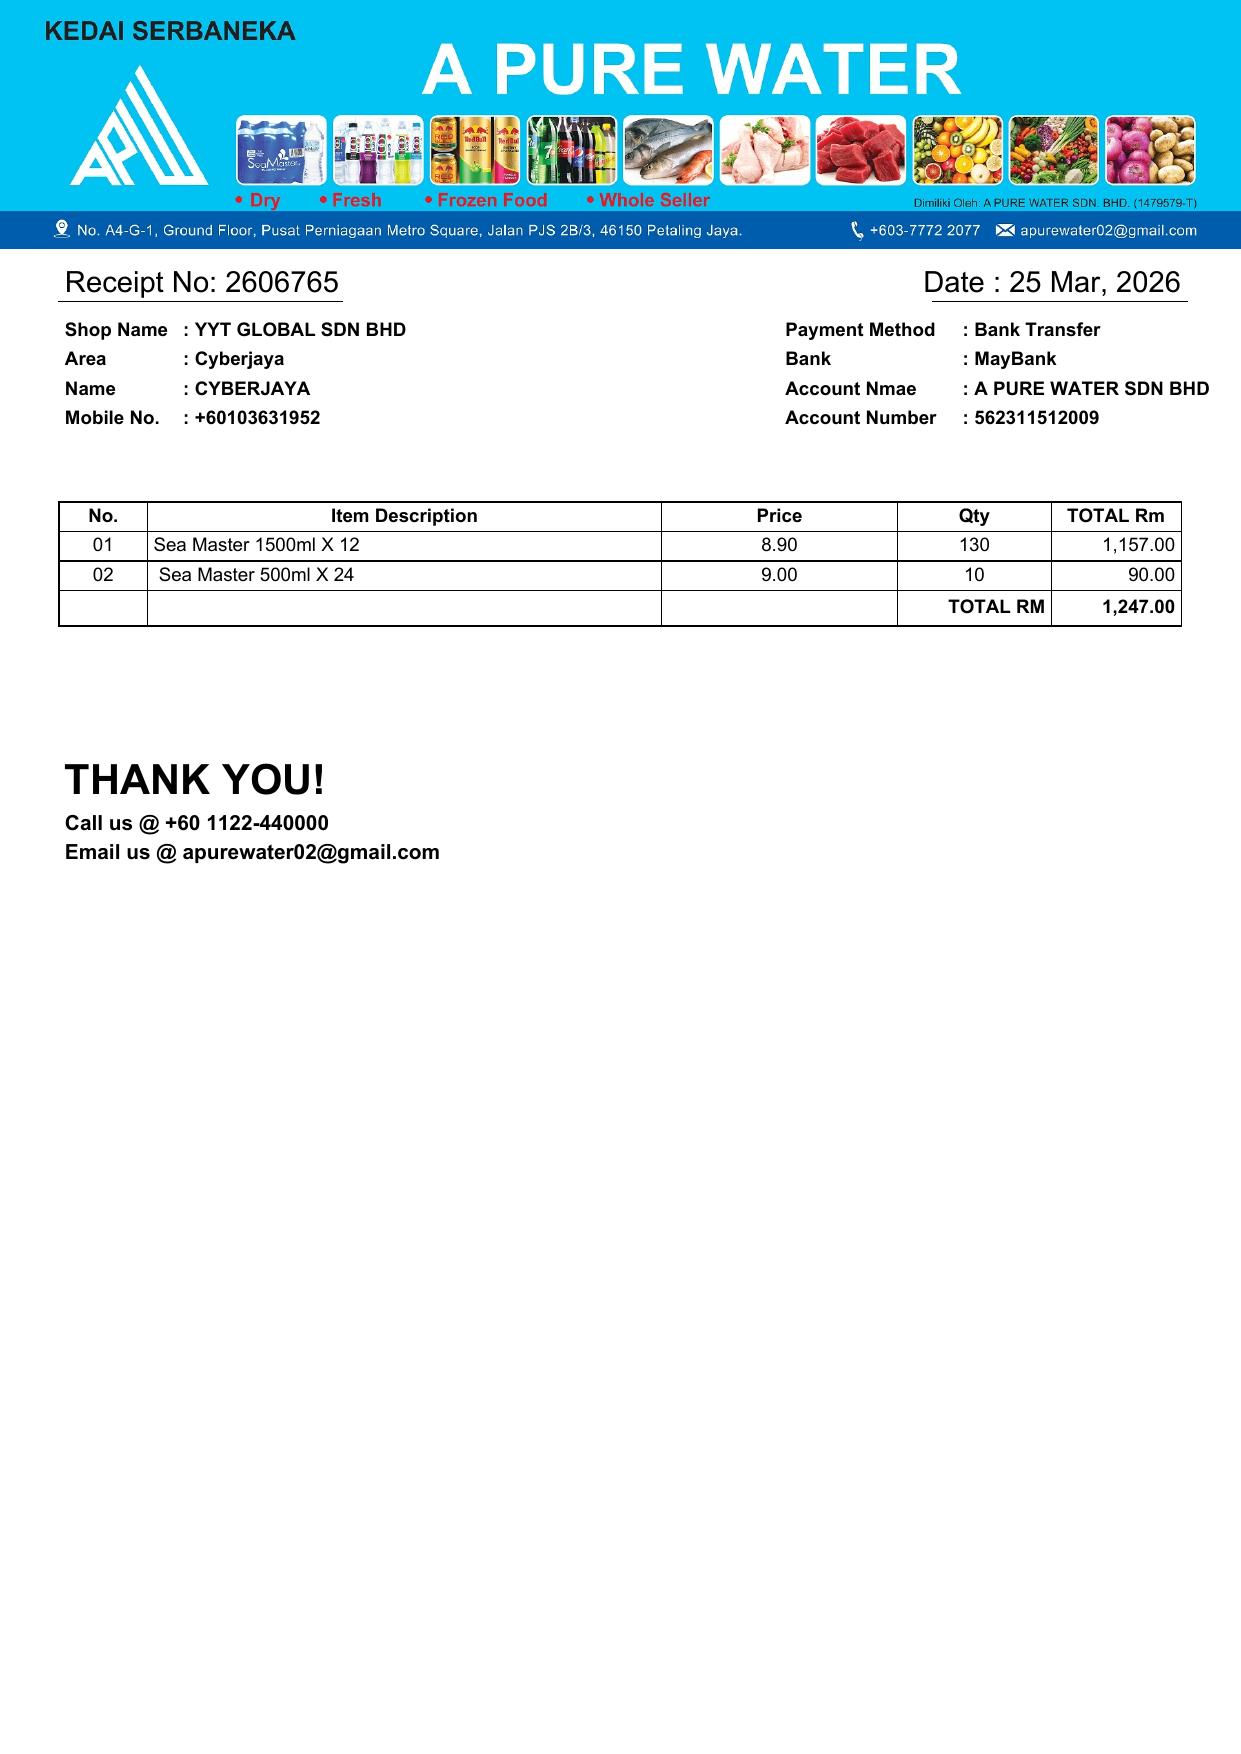
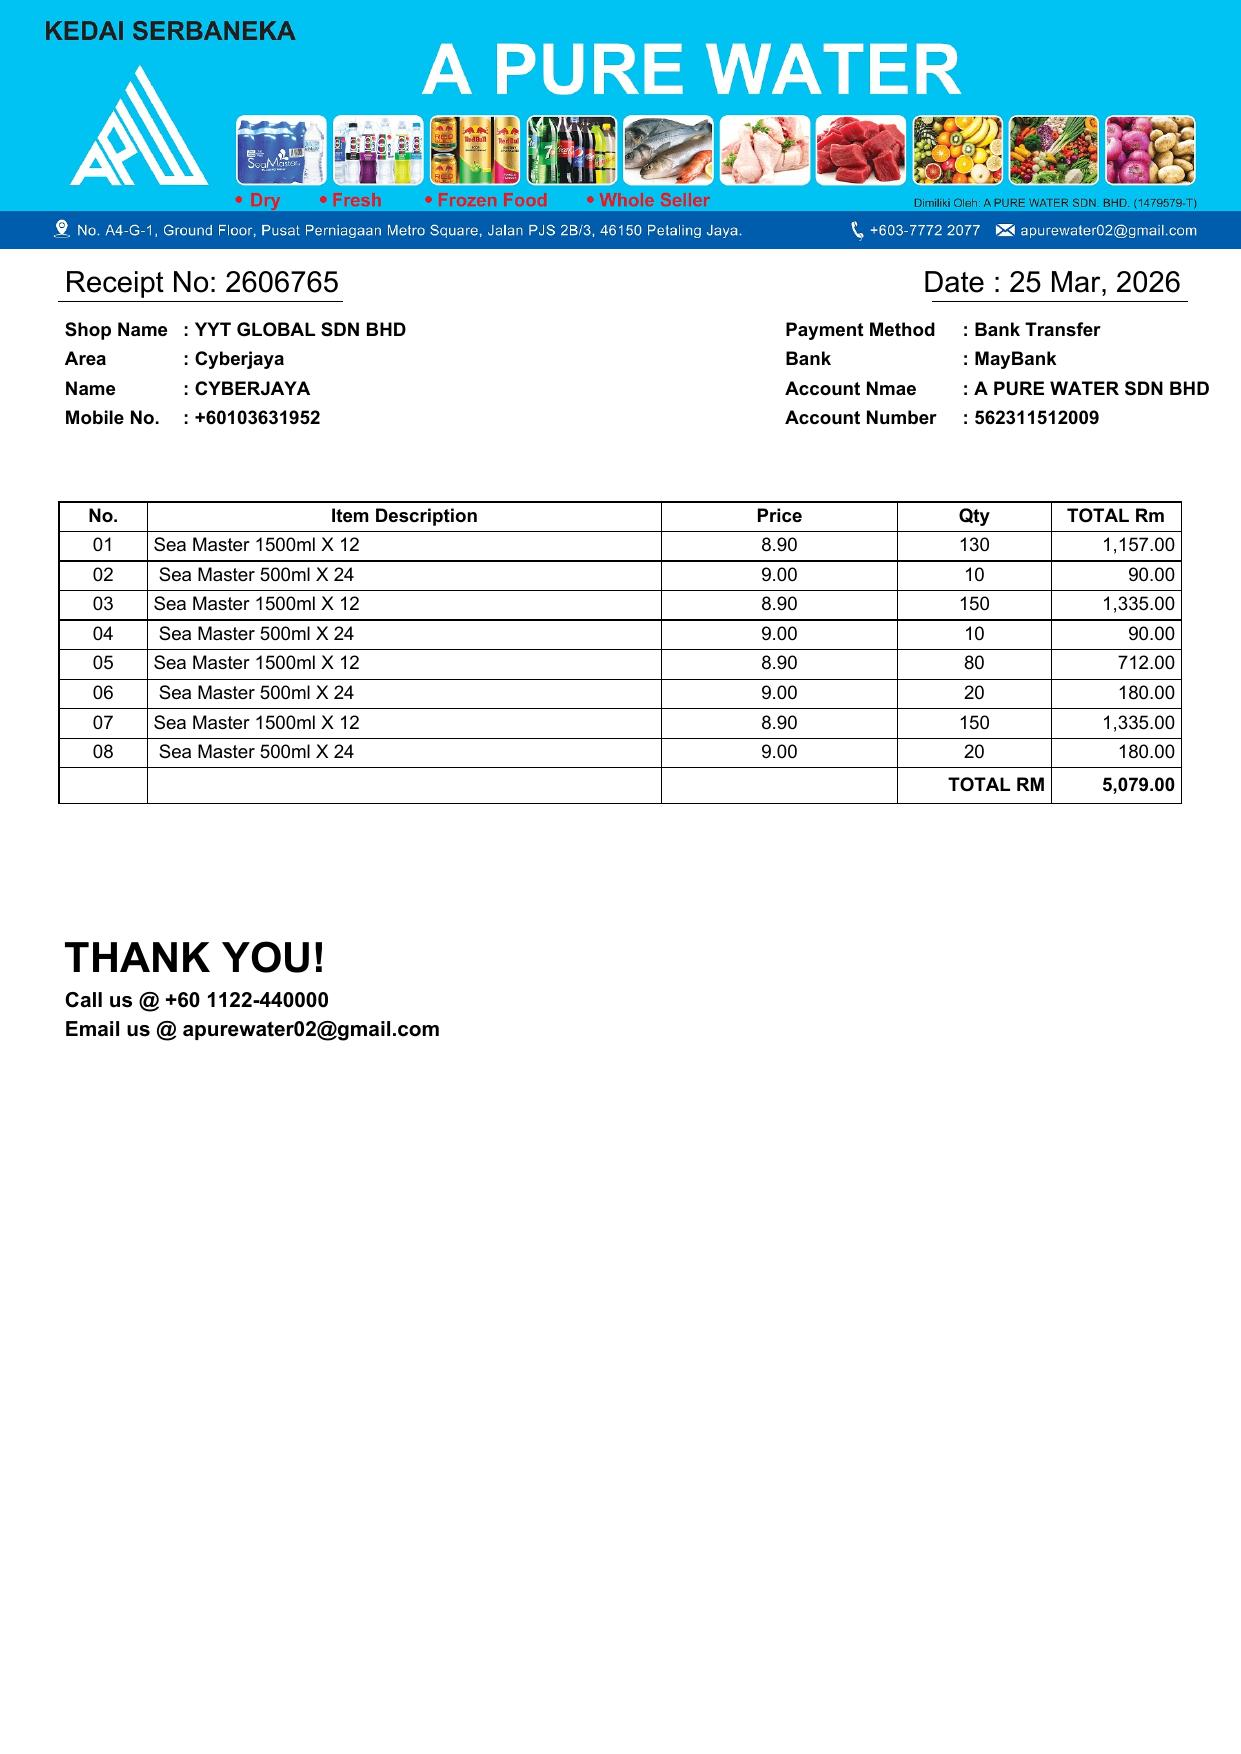
fix delivery date

diff --git a/mobile/pages/home.php b/mobile/pages/home.php
@@ -3,6 +3,10 @@
     border-color: #2563eb !important;
   }
 
+  .bg-gradient-to-b{
+    bottom: 3.5rem !important;
+    right: 1.2rem !important;
+  }
   .text-xsm {
     font-size: .7rem;
   }
@@ -161,56 +165,56 @@ foreach ($products as $pg) {
 </div>
 
 <!-- Product Variants Rows (horizontal sliders) -->
-<div class="space-y-6">
+<div class="space-y-2">
   <?php foreach ($products as $productGroup): ?>
     <div class="bg-white rounded-lg shadow-sm overflow-hidden product-section" id="<?php echo strtolower(str_replace(' ', '-', $productGroup['category_name'])); ?>" data-category="<?php echo strtolower($productGroup['category_name']); ?>">
       <!-- Category Header -->
       <div class="px-2 py-2 bg-white flex items-center justify-between">
         <h3 class="font-bold text-brandBlue text-base"><?php echo $productGroup['category_name']; ?></h3>
-        <div class="flex items-center gap-2">
+        <div class="flex items-center gap-0">
           <button class="slider-prev rounded-full w-8 h-8 border border-gray-300 text-gray-600 flex items-center justify-center hover:bg-gray-50" aria-label="Previous">‹</button>
           <button class="slider-next rounded-full w-8 h-8 border border-gray-300 text-gray-600 flex items-center justify-center hover:bg-gray-50" aria-label="Next">›</button>
         </div>
       </div>
       <!-- Slider Viewport -->
-      <div class="slider-viewport overflow-x-auto overflow-y-hidden relative px-4">
-        <div class="slider-track flex gap-3 will-change-transform pb-2">
+      <div class="slider-viewport overflow-x-auto overflow-y-hidden relative -ml-4">
+        <div class="slider-track flex gap-0 will-change-transform pb-2 pl-4 pr-4">
           <?php foreach ($productGroup['variants'] as $product): ?>
-            <div class="slider-card border border-gray-200 rounded-md overflow-hidden product-item bg-white p-2 flex-shrink-0" style="width: 40%; min-width: 40%;"
+            <div class="slider-card overflow-visible product-item bg-white flex-shrink-0 relative" style="width: calc(40% - 4px); min-width: calc(40% - 4px);"
               data-name="<?php echo strtolower($product['name']); ?>"
               data-category="<?php echo strtolower($productGroup['category_name']); ?>"
               data-size="<?php echo strtolower($product['size']); ?>">
-              <!-- Title Bar -->
-              <div class="px-2 pt-2">
-                <div class="flex items-start justify-between">
-                  <div class="text-[10px] text-gray-600">
-                    <select class="cart-item border border-gray-300 rounded-sm px-1 py-0 text-[10px] focus:outline-none focus:ring-2 focus:ring-blue-400" data-product="<?php echo $product['id']; ?>" aria-label="Quantity">
-                      <?php for ($counter = 0; $counter <= 10; $counter++): ?>
-                        <option value="<?php echo $counter; ?>"><?php echo ($counter > 0 ? '' : '') . $counter; ?></option>
-                      <?php endfor; ?>
-                      <option value="__custom__">Enter quantity...</option>
-                    </select>
-                  </div>
-                </div>
+              <!-- Floating Quantity Badge -->
+              <div class="absolute z-10" style="bottom: 4.5rem;right: 1rem;">
+                <div class="qty-badge bg-white text-green-500 rounded-full w-6 h-6 flex items-center justify-center font-bold text-xs cursor-pointer border border-gray-300 hover:border-gray-400 transition-colors" data-product="<?php echo $product['id']; ?>" style="display: none;">0</div>
               </div>
+              <!-- Hidden select for form submission -->
+              <select class="cart-item hidden" data-product="<?php echo $product['id']; ?>" aria-label="Quantity">
+                <?php for ($counter = 0; $counter <= 10; $counter++): ?>
+                  <option value="<?php echo $counter; ?>"><?php echo $counter; ?></option>
+                <?php endfor; ?>
+                <option value="__custom__">Enter quantity...</option>
+              </select>
               <!-- Image Area -->
-              <div class="px-2 pt-2">
-                <div class="bg-gradient-to-b from-blue-50 to-white rounded-sm flex items-end justify-center overflow-hidden">
+              <div class="p-2">
+                <div class="bg-gradient-to-b from-blue-50 to-white flex items-end justify-center overflow-hidden" style="aspect-ratio: 1; border-radius: 10px; border: solid 1px #efefef;">
                   <?php
                   $imageSrc = getImageOrPlaceholder($product['image'], $product['name']);
                   if (file_exists($product['image'])):
                   ?>
-                    <img src="<?php echo $imageSrc; ?>" alt="<?php echo htmlspecialchars($product['name']); ?>" class="h-full object-contain">
+                    <img src="<?php echo $imageSrc; ?>" alt="<?php echo htmlspecialchars($product['name']); ?>" class="h-full object-contain rounded-md">
                   <?php else: ?>
-                    <img src="<?php echo $imageSrc; ?>" alt="<?php echo htmlspecialchars($product['name']); ?>" class="object-contain opacity-80">
+                    <img src="<?php echo $imageSrc; ?>" alt="<?php echo htmlspecialchars($product['name']); ?>" class="object-contain opacity-80 rounded-md">
                   <?php endif; ?>
                 </div>
               </div>
+              <!-- Product Name -->
+              <div class="text-left text-[10px] text-black px-2 py-2 pb-0 line-clamp-2" style="white-space: nowrap"><?php echo htmlspecialchars($product['name']); ?></div>
               <!-- Blue Footer with Category -->
-              <div class="text-center bg-brandBlue text-black text-xxl font-semibold"><?php echo $productGroup['category_name']; ?></div>
+              <!-- <div class="text-center bg-brandBlue text-black text-xxl font-semibold"><?php echo $productGroup['category_name']; ?></div> -->
               <!-- Bottom Row: price only (select moved to top) -->
-              <div class="flex items-center justify-center">
-                <div class="font-lexend text-[25px] font-extrabold text-red-600"><span class='text-xs'>RM</span> <?php echo number_format($product['price'], 2); ?></div>
+              <div class="flex items-center justify-center px-2">
+                <div class="font-lexend text-[16px] text-bold" style="color:red"><span class="text-[8px]">RM</span> <?php echo number_format($product['price'], 2); ?></div>
               </div>
             </div>
           <?php endforeach; ?>
@@ -318,6 +322,7 @@ foreach ($products as $pg) {
 
   .slider-track {
     transition: transform .35s ease;
+    margin-left: .4rem !important;
   }
 
   .slider-viewport {
@@ -814,8 +819,40 @@ foreach ($products as $pg) {
       sel.value = val;
     }
 
+    // Update all badges for a product
+    function updateAllBadges(productId, sel) {
+      const qty = parseInt(sel.value || '0', 10);
+      document.querySelectorAll(`.qty-badge[data-product="${productId}"]`).forEach(badge => {
+        badge.textContent = qty;
+        badge.style.display = qty > 0 ? 'flex' : 'none';
+      });
+    }
+
+    // Handle badge click to increment quantity
+    document.querySelectorAll('.qty-badge').forEach(badge => {
+      badge.addEventListener('click', (e) => {
+        e.stopPropagation();
+        const productId = badge.getAttribute('data-product');
+        const sel = document.querySelector(`select.cart-item[data-product="${productId}"]`);
+        if (!sel) return;
+        let qty = parseInt(sel.value || '0', 10) + 1;
+        if (qty > 10) {
+          const opt = document.createElement('option');
+          opt.value = String(qty);
+          opt.textContent = String(qty);
+          sel.appendChild(opt);
+        }
+        sel.value = String(qty);
+        updateAllBadges(productId, sel);
+      });
+    });
+
+    // Update badge when select changes
     document.querySelectorAll('select.cart-item').forEach(sel => {
+      const productId = sel.getAttribute('data-product');
+      
       sel.addEventListener('change', () => {
+        updateAllBadges(productId, sel);
         if (sel.value !== '__custom__') return;
         openQtyModal(sel);
       });
@@ -827,12 +864,16 @@ foreach ($products as $pg) {
         return;
       }
       applyQtyToSelect(qtyTargetSelect, qtyInputEl ? qtyInputEl.value : '0');
+      const productId = qtyTargetSelect.getAttribute('data-product');
+      updateAllBadges(productId, qtyTargetSelect);
       qtyTargetSelect = null;
       closeQtyModal();
     });
 
     qtyCancelBtn && qtyCancelBtn.addEventListener('click', () => {
       if (qtyTargetSelect) qtyTargetSelect.value = '0';
+      const productId = qtyTargetSelect.getAttribute('data-product');
+      updateAllBadges(productId, qtyTargetSelect);
       qtyTargetSelect = null;
       closeQtyModal();
     });
@@ -840,8 +881,8 @@ foreach ($products as $pg) {
     // Click card to increment quantity (mobile-friendly)
     document.querySelectorAll('.product-item').forEach(card => {
       card.addEventListener('click', (e) => {
-        // avoid increment when clicking directly on select to change value manually
-        if (e.target && (e.target.tagName === 'SELECT' || e.target.closest('select'))) return;
+        // avoid increment when clicking on badge or select
+        if (e.target && (e.target.tagName === 'SELECT' || e.target.closest('select') || e.target.closest('.qty-badge'))) return;
         const sel = card.querySelector('select.cart-item');
         if (!sel) return;
         let qty = parseInt(sel.value || '0', 10) + 1;
@@ -852,6 +893,8 @@ foreach ($products as $pg) {
           sel.appendChild(opt);
         }
         sel.value = String(qty);
+        const productId = sel.getAttribute('data-product');
+        updateAllBadges(productId, sel);
       });
     });
 

diff --git a/app/pages/forms/invoice.php b/app/pages/forms/invoice.php
@@ -14,7 +14,9 @@ if (METHOD == 'edit' && defined('ID')) {
   if (isset($post->save)) {
     $obj->salesman = $post->salesman;
     $salesman = R::findOne('staff_salary', 'name=?', [$post->salesman]);
-    $obj->incentive = $salesman->incentive;
+    if($salesman){
+      $obj->incentive = $salesman->incentive;
+    }
     // $obj->salesman_id = $post->salesman_id;
     $obj->invoice_date = isset($post->date) ? $post->date : today();
     // $obj->due_date = $post->due_date;
@@ -22,26 +24,58 @@ if (METHOD == 'edit' && defined('ID')) {
     // $obj->note = $post->note;
 
     R::store($obj);
-    if (METHOD == 'edit' && defined('ID')) {
-      del("invoice_item", "invoice_id=" . ID);
+    
+    // Get existing invoice items for this invoice
+    $existingItems = R::find("invoice_item", "invoice_id=?", [ID]);
+    $existingItemsMap = [];
+    foreach ($existingItems as $item) {
+      $existingItemsMap[$item->product_variance_id] = $item;
     }
+    
+    // Track which items are being updated
+    $updatedVarianceIds = [];
+    
     foreach ($post->product as $id => $qty) {
       $variance = R::load("product_variance", $id);
       $product = R::load("product", $variance->product_id);
-      $ii = R::dispense("invoice_item");
-
-      $ii->invoice_id = $obj->id;
-      $ii->product_id = $product->id;
-      $ii->product_variance_id = $variance->id;
-      // $ii->delivery_date = $obj->invoice_date;
-      $ii->quantity = $qty;
-      $ii->price = $variance->price;
-      $ii->cost = $variance->cost;
-      $ii->name = $product->name;
-      $ii->description = $variance->particulars;
-      $ii->created_by = nn($obj->created_by) ? $obj->created_by : uid();
-
+      $updatedVarianceIds[] = $id;
+      
+      // Get posted price if available, otherwise use variance price
+      $postedPrice = isset($post->price[$id]) ? (float) $post->price[$id] : $variance->price;
+      
+      // Check if item already exists
+      if (isset($existingItemsMap[$id])) {
+        // Update existing item
+        $ii = $existingItemsMap[$id];
+        $ii->quantity = $qty;
+        $ii->price = $postedPrice;
+        $ii->cost = $variance->cost;
+        $ii->name = $product->name;
+        $ii->description = $variance->particulars;
+        $ii->updated_by = uid();
+        $ii->updated_at = now();
+      } else {
+        // Create new item
+        $ii = R::dispense("invoice_item");
+        $ii->invoice_id = $obj->id;
+        $ii->product_id = $product->id;
+        $ii->product_variance_id = $variance->id;
+        $ii->quantity = $qty;
+        $ii->price = $postedPrice;
+        $ii->cost = $variance->cost;
+        $ii->name = $product->name;
+        $ii->description = $variance->particulars;
+        $ii->created_by = nn($obj->created_by) ? $obj->created_by : uid();
+      }
+      
       R::store($ii);
+    }
+    
+    // Delete items that are no longer in the product list
+    foreach ($existingItems as $item) {
+      if (!in_array($item->product_variance_id, $updatedVarianceIds)) {
+        R::trash($item);
+      }
     }
 
     redir(ROOT . "/customer/details/$post->customer_id");
@@ -246,13 +280,8 @@ if (METHOD == 'edit' && defined('ID')) {
 						  $variance->price = $cp[$variance->id];
 					  }
 						
-                      // $customer_product_variance = R::findOne("customer_product_variance", "customer_id=? AND product_variance_id=?", [$obj->customer_id, $variance->id]);
-                      // if ($customer_product_variance) {
-                      //   $price = $customer_product_variance->price;
-                      // } else {
-                      // $price = $variance->price;
-                      // }
-                      $price = $variance->price;
+                      // Load price from invoice_item (database) instead of variance
+                      $price = $item->price;
 
                       print "<tr>";
                       print "<td>$i</td>";

diff --git a/ajax/dcollect.php b/ajax/dcollect.php
@@ -66,7 +66,7 @@ if (nn($products)) {
   $filter .= ($filter != " WHERE " ? " AND " : " ") . " p.product_category_id IN ($products)";
 }
 
-$filter .= ($filter != " WHERE " ? " AND " : " ") . " IFNULL(ii.delivery_date,i.invoice_date) <= curdate()";
+$filter .= ($filter != " WHERE " ? " AND " : " ") . " IFNULL(ii.delivery_date,i.invoice_date) = curdate()";
 $filter .= ($filter != " WHERE " ? " AND " : " ") . " IFNULL(ii.delivery_date,i.invoice_date) >= '2026-03-26'";
 $filter .= ($filter != " WHERE " ? " AND " : " ") . " ii.quantity > ii.delivered";
 $filter .= ($filter != " WHERE " ? " AND " : " ") . " (ii.assigned_at IS NULL OR ii.assigned_to IS NULL OR ii.assigned_to = '')";
@@ -339,7 +339,7 @@ $con .= "<th class='serial-col text-center' style='width:20px; min-width:20px; m
         // Optimized: Get all items for this customer in one query
         $itemFilter = "i.customer_id=$customer->id ";
         $itemFilter .= " AND ii.delivered < ii.quantity";
-        $itemFilter .= " AND IFNULL(ii.delivery_date,i.invoice_date) <= curdate()";
+        $itemFilter .= " AND IFNULL(ii.delivery_date,i.invoice_date) = curdate()";
         $itemFilter .= " AND IFNULL(ii.delivery_date,i.invoice_date) >= '2026-03-26'";
         $itemFilter .= " AND (ii.assigned_at IS NULL OR ii.assigned_to IS NULL OR ii.assigned_to = '')";
         $itemFilter .= " AND (ii.collected_at IS NULL AND NOT EXISTS (SELECT 1 FROM stock_collect_item sci WHERE sci.invoice_item_id=ii.id LIMIT 1))";

diff --git a/ajax/update_invoice_item_date.php b/ajax/update_invoice_item_date.php
@@ -16,5 +16,6 @@ if(isset($update_date)){
 	//updatep("invoice_item", "delivery_date='$date'", "product_variance_id=$item->product_variance_id and delivery_date <= curdate() AND quantity > delivered and invoice_id IN  (SELECT id FROM invoice WHERE customer_id=$inv->customer_id)");
 	// updatep("invoice_item", "delivery_date='$date'", "product_variance_id IN ($item->product_variance_id) and quantity > delivered and invoice_id IN  (SELECT id FROM invoice WHERE customer_id=$inv->customer_id)");
 	update("invoice_item", "delivery_date='$date'", "id IN ($invoice_item_id)");
+    update("invoice", "invoice_date='$date'", "id IN ($inv->id)");
     print df($date);
 }

diff --git a/mobile/ajax/update_invoice_item_date.php b/mobile/ajax/update_invoice_item_date.php
@@ -13,5 +13,6 @@ if(isset($update_date)){
 	//updatep("invoice_item", "delivery_date='$date'", "product_variance_id=$item->product_variance_id and delivery_date <= curdate() AND quantity > delivered and invoice_id IN  (SELECT id FROM invoice WHERE customer_id=$inv->customer_id)");
 	// updatep("invoice_item", "delivery_date='$date'", "product_variance_id IN ($item->product_variance_id) and quantity > delivered and invoice_id IN  (SELECT id FROM invoice WHERE customer_id=$inv->customer_id)");
 	update("invoice_item", "delivery_date='$date'", "id IN ($invoice_item_id)");
+    update("invoice", "invoice_date='$date'", "id IN ($inv->id)");
     print df($date);
 }
